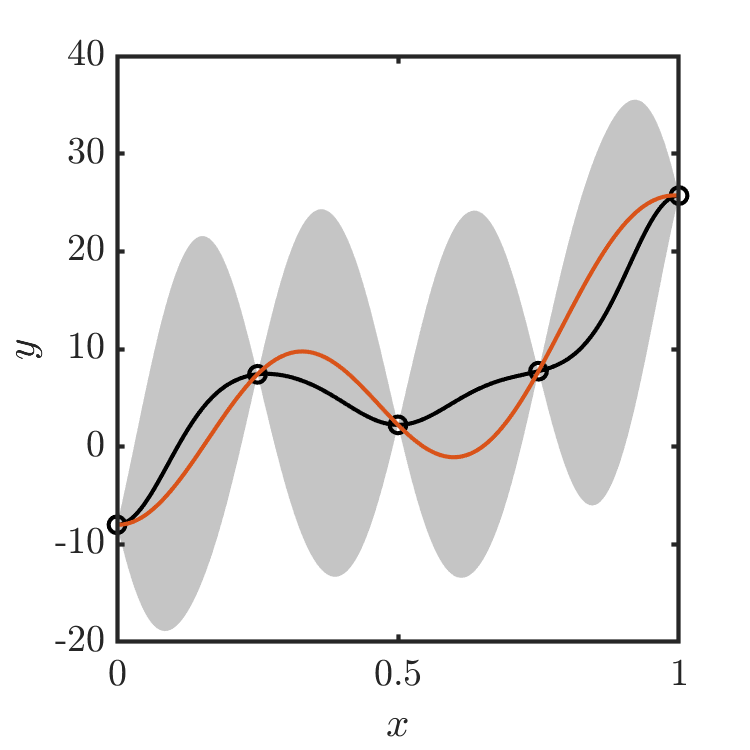
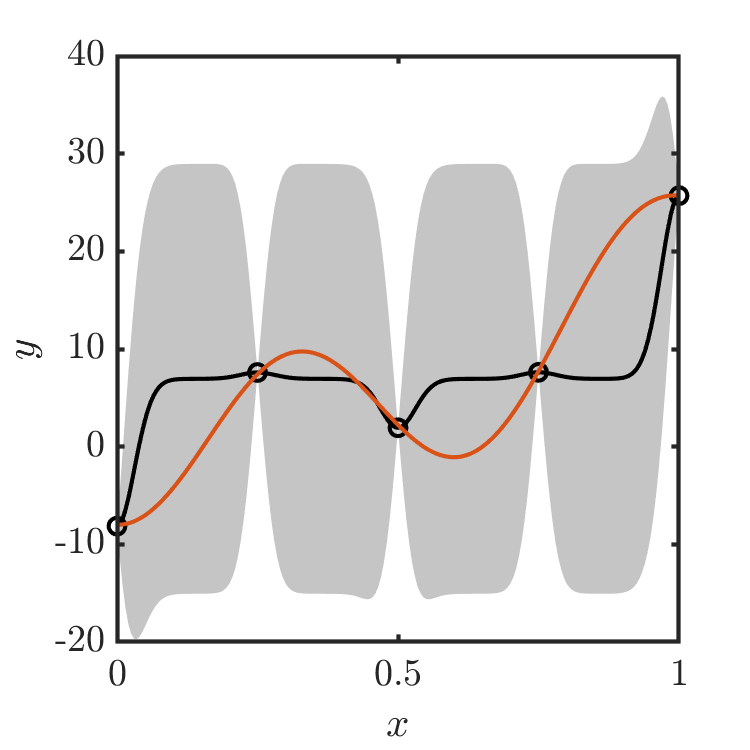
update analytic plots

Changed region(s): [[0.1533, 0.1227, 0.92, 0.8587], [0.7973, 0.368, 0.828, 0.4293]]

diff --git a/code/image_gen/gp_analytical/plot_analytical_func.m b/code/image_gen/gp_analytical/plot_analytical_func.m
@@ -35,11 +35,11 @@ legend('True function','Low-fidelity approximation','location','northwest')
 %% High Fidelity
 
 for i = 3:1:6
-    rng(10)
+    rng(1)
     n_hf=i;
     X_HF = lhsdesign(n_hf,1);
     X_HF = linspace(0.0,1.0,n_hf)';
-    Y = y_hf_func(X_HF);
+    Y = y_hf_func(X_HF) + randn(size(X_HF))*0.2;
     sig = ones(n_hf,1)*.001;
     gp = MF_GP;
     gp = gp.add_data(X_HF,Y,sig);
